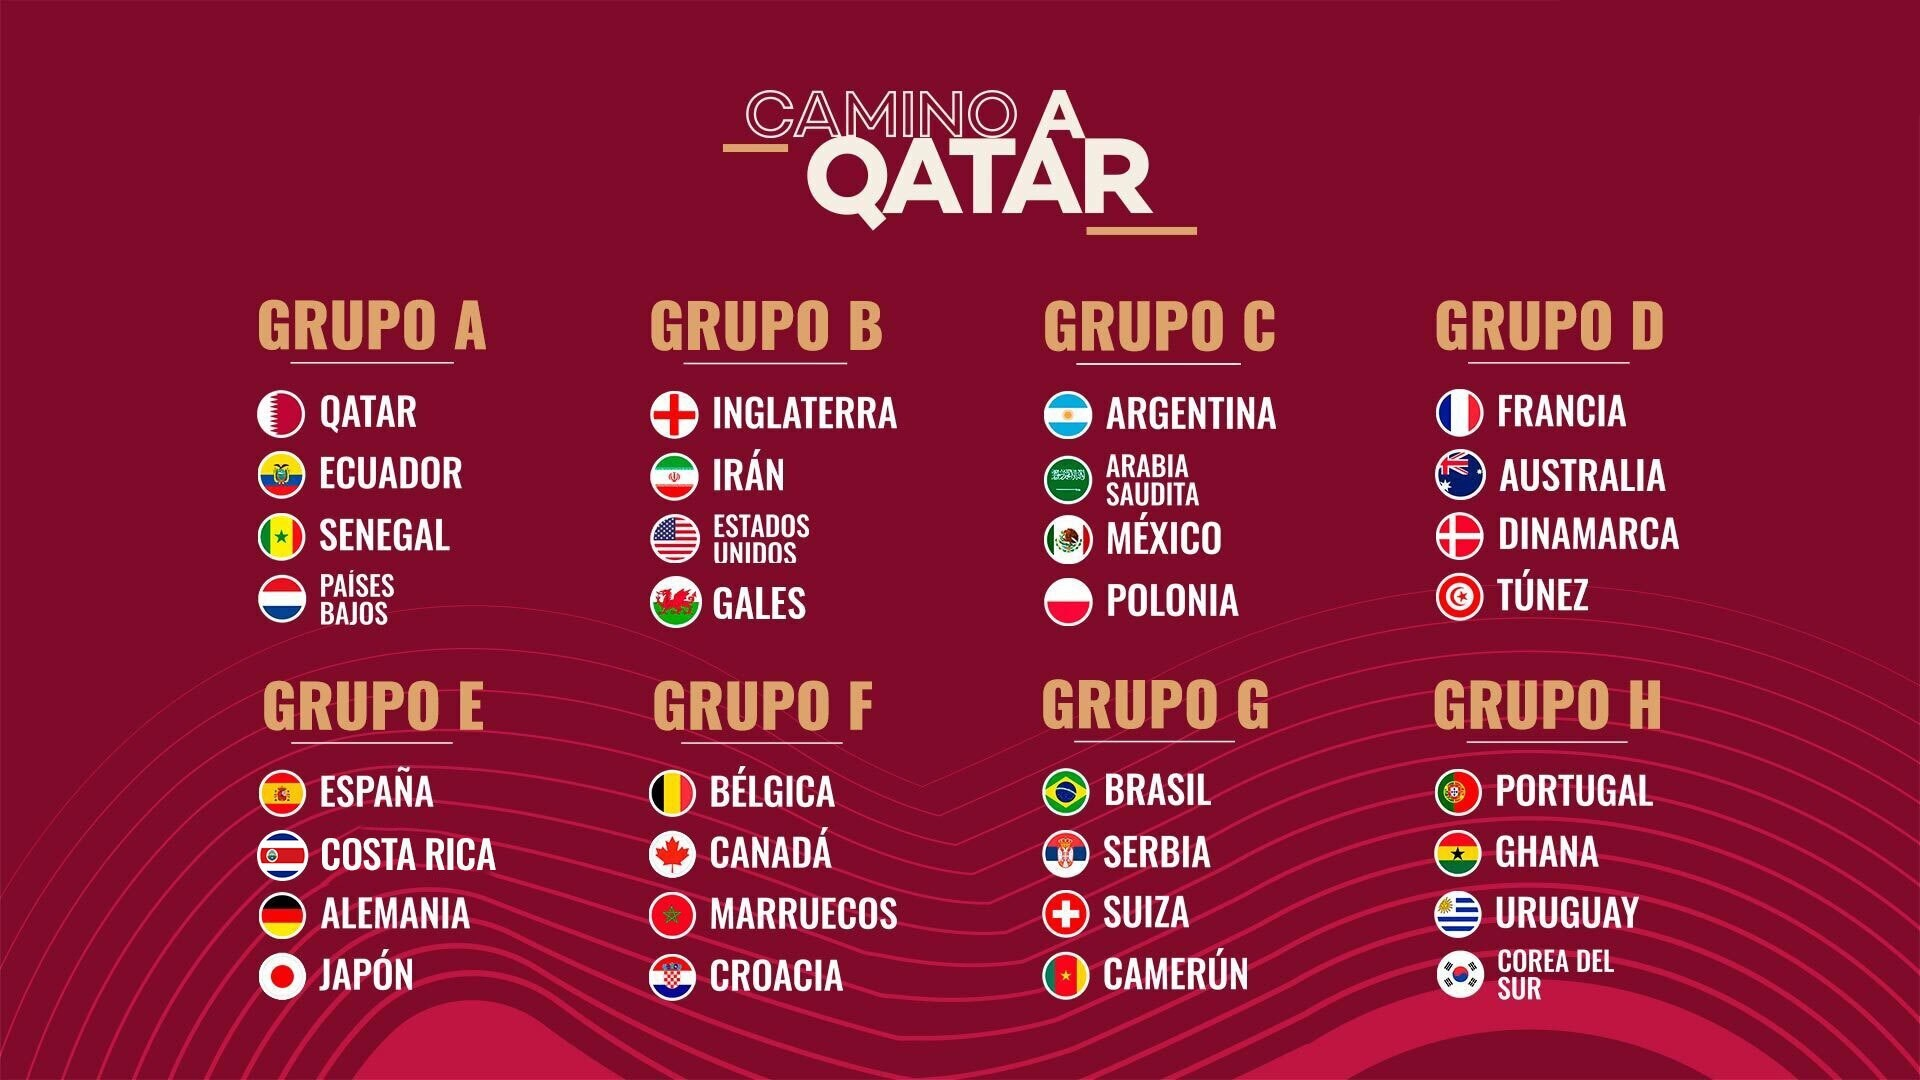
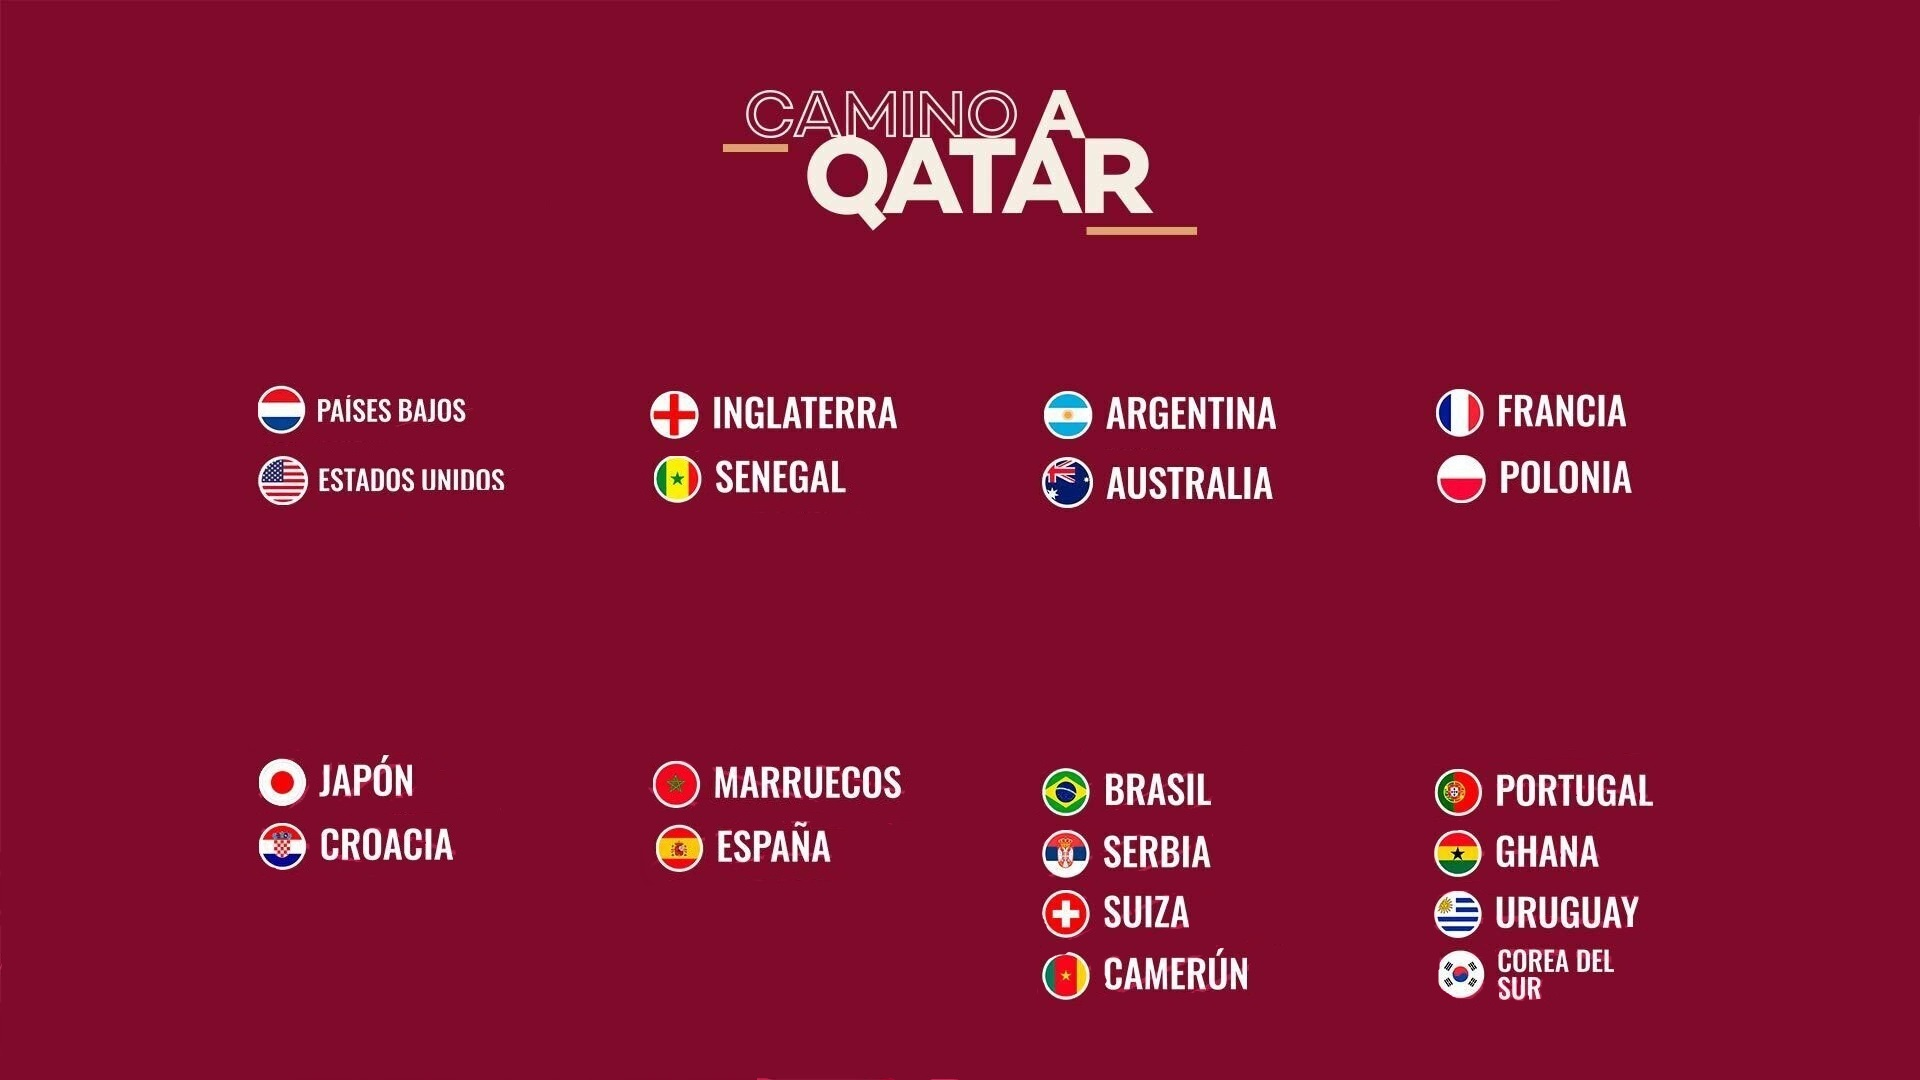
Actualizacion 8vos

diff --git a/js/app.js b/js/app.js
@@ -45,8 +45,15 @@ var app = new Vue({
         fnDeleteGambler(name){        
             this.listGamblers = this.listGamblers.filter((item) => { return item.name.toLowerCase() != name.toLowerCase() });
         },
-        fnResetTeamNums(){
-            this.teamNums = Array.from({length: this.teams.length}, (_, i) => i + 1);
+        fnResetTeamNums(){            
+            let arr = [];             
+            this.teams = this.teams.filter(function(team){
+                if(team.eliminate == false){
+                    arr.push(team.id);
+                }
+                return team.eliminate == false;
+            });
+            this.teamNums = arr;
         },
         fnResetSelect(){
             this.listGamblers = [];
@@ -73,17 +80,20 @@ var app = new Vue({
             return Math.floor(Math.random() * length);
         },        
         fnLottery(){       
+            let objThis = this;
             this.showLoading = true;                   
             this.fnResetTeamNums();          
-            let teams4Participant = Math.floor(this.teamNums.length/this.numGamblers);
-            this.listGamblers = this.listGamblers.filter(function(obj){ return obj.name.toLowerCase() != "none" }) ;
+            let teams4Participant = Math.floor(this.teams.length/this.numGamblers);
+            this.listGamblers = this.listGamblers.filter(function(obj){ return obj.name.toLowerCase() != "none" }) ;            
             for(let index in this.listGamblers) {                                                                
                 let objGambler = this.listGamblers[index];
                 objGambler.data = [];
                 for(var j= 1; j <= teams4Participant; j++) //numeros por participante
-                {
-                    let pos = this.fnRandom(this.teamNums.length);
-                    let elementSelected = this.teams.filter((item)=>{ return item.id == this.teamNums[pos]; });    
+                {                    
+                    let pos = this.fnRandom(this.teamNums.length);                    
+                    let elementSelected = this.teams.filter(function(item){ 
+                        return item.id == objThis.teamNums[pos]; 
+                    });    
                     this.teamNums.splice(pos,1);                                                    
                     objGambler.data.push(elementSelected[0]);
                 }                  
@@ -95,8 +105,7 @@ var app = new Vue({
                     objNone.data.push(this.teams.filter((item)=>{ return item.id == this.teamNums[k]; })[0]);
                 }  
                 this.listGamblers.push(objNone);
-            }   
-            let objThis = this;
+            }               
             setTimeout(function(){
                 objThis.showLoading = false;
             }, 1000);
@@ -119,8 +128,8 @@ var app = new Vue({
             return this.listGamblers.length >= this.numGamblers;
         },        
     },
-    data: { 
-        gamblerName: "",        
+    data: {         
+        gamblerName: "", 
         teamNums: [],        
         listGamblers: [],        
         numGamblers:2,  
@@ -130,162 +139,194 @@ var app = new Vue({
             id:1,
             country: "QATAR",
             group: "A",
-            flag: "images/flags/4x3/qa.svg"
+            flag: "images/flags/4x3/qa.svg",
+            eliminate: true
         },{
             id:2,
             country: "ECUADOR",
             group: "A",
-            flag: "images/flags/4x3/ec.svg"
+            flag: "images/flags/4x3/ec.svg",
+            eliminate: true
         },{
             id:3,
             country: "SENEGAL",
             group: "A",
-            flag: "images/flags/4x3/sn.svg"
+            flag: "images/flags/4x3/sn.svg",
+            eliminate: false
         },{
             id:4,
             country: "PAISES BAJOS",
             group: "A",
-            flag: "images/flags/4x3/nl.svg"
+            flag: "images/flags/4x3/nl.svg",
+            eliminate: false
         },{
             id:5,
             country: "INGLATERRA",
             group: "B",
-            flag: "images/flags/4x3/gb-eng.svg"
+            flag: "images/flags/4x3/gb-eng.svg",
+            eliminate: false
         },{
             id:6,
             country: "IRAN",
             group: "B",
-            flag: "images/flags/4x3/ir.svg"
+            flag: "images/flags/4x3/ir.svg",
+            eliminate: true
         },{
             id:7,
             country: "EEUU",
             group: "B",
-            flag: "images/flags/4x3/us.svg"
+            flag: "images/flags/4x3/us.svg",
+            eliminate: false
         },{
             id:8,
             country: "GALES",
             group: "B",
-            flag: "images/flags/4x3/gb-wls.svg"
+            flag: "images/flags/4x3/gb-wls.svg",
+            eliminate: true
         },{
             id:9,
             country: "ARGENTINA",
             group: "C",
-            flag: "images/flags/4x3/ar.svg"
+            flag: "images/flags/4x3/ar.svg",
+            eliminate: false
         },{
             id:10,
             country: "ARABIA S.",
             group: "C",
-            flag: "images/flags/4x3/sa.svg"
+            flag: "images/flags/4x3/sa.svg",
+            eliminate: true
         },{
             id:11,
             country: "MEXICO",
             group: "C",
-            flag: "images/flags/4x3/mx.svg"
+            flag: "images/flags/4x3/mx.svg",
+            eliminate: true
         },{
             id:12,
             country: "POLONIA",
             group: "C",
-            flag: "images/flags/4x3/pl.svg"
+            flag: "images/flags/4x3/pl.svg",
+            eliminate: false
         },{
             id:13,
             country: "FRANCIA",
             group: "D",
-            flag: "images/flags/4x3/fr.svg"
+            flag: "images/flags/4x3/fr.svg",
+            eliminate: false
         },{
             id:14,
             country: "AUSTRALIA",
             group: "D",
-            flag: "images/flags/4x3/au.svg"
+            flag: "images/flags/4x3/au.svg",
+            eliminate: false
         },{
             id:15,
             country: "DINAMARCA",
             group: "D",
-            flag: "images/flags/4x3/dk.svg"
+            flag: "images/flags/4x3/dk.svg",
+            eliminate: true
         },{
             id:16,
             country: "TUNEZ",
             group: "D",
-            flag: "images/flags/4x3/tn.svg"
+            flag: "images/flags/4x3/tn.svg",
+            eliminate: true
         },{
             id:17,
             country: "ESPAÑA",
             group: "E",
-            flag: "images/flags/4x3/es.svg"
+            flag: "images/flags/4x3/es.svg",
+            eliminate: false
         },{
             id:18,
             country: "COSTA RICA",
             group: "E",
-            flag: "images/flags/4x3/cr.svg"
+            flag: "images/flags/4x3/cr.svg",
+            eliminate: true
         },{
             id:19,
             country: "ALEMANIA",
             group: "E",
-            flag: "images/flags/4x3/de.svg"
+            flag: "images/flags/4x3/de.svg",
+            eliminate: true
         },{
             id:20,
             country: "JAPON",
             group: "E",
-            flag: "images/flags/4x3/jp.svg"
+            flag: "images/flags/4x3/jp.svg",
+            eliminate: false
         },{
             id:21,
             country: "BELGICA",
             group: "F",
-            flag: "images/flags/4x3/be.svg"
+            flag: "images/flags/4x3/be.svg",
+            eliminate: true
         },{
             id:22,
             country: "CANADA",
             group: "F",
-            flag: "images/flags/4x3/ca.svg"
+            flag: "images/flags/4x3/ca.svg",
+            eliminate: true
         },{
             id:23,
             country: "MARRUECOS",
             group: "F",
-            flag: "images/flags/4x3/ma.svg"
+            flag: "images/flags/4x3/ma.svg",
+            eliminate: false
         },{
             id:24,
             country: "CROACIA",
             group: "F",
-            flag: "images/flags/4x3/hr.svg"
+            flag: "images/flags/4x3/hr.svg",
+            eliminate: false
         },{
             id:25,
             country: "BRASIL",
             group: "G",
-            flag: "images/flags/4x3/br.svg"
+            flag: "images/flags/4x3/br.svg",
+            eliminate: false
         },{
             id:26,
             country: "SERBIA",
             group: "G",
-            flag: "images/flags/4x3/rs.svg"
+            flag: "images/flags/4x3/rs.svg",
+            eliminate: true
         },{
             id:27,
             country: "SUIZA",
             group: "G",
-            flag: "images/flags/4x3/ch.svg"
+            flag: "images/flags/4x3/ch.svg",
+            eliminate: false
         },{
             id:28,
             country: "CAMERUN",
             group: "G",
-            flag: "images/flags/4x3/cm.svg"
+            flag: "images/flags/4x3/cm.svg",
+            eliminate: true
         },{
             id:29,
             country: "PORTUGAL",
             group: "H",
-            flag: "images/flags/4x3/pt.svg"
+            flag: "images/flags/4x3/pt.svg",
+            eliminate: false
         },{
             id:30,
             country: "GHANA",
             group: "H",
-            flag: "images/flags/4x3/gh.svg"
+            flag: "images/flags/4x3/gh.svg",
+            eliminate: false
         },{
             id:31,
             country: "URUGUAY",
             group: "H",
-            flag: "images/flags/4x3/uy.svg"
+            flag: "images/flags/4x3/uy.svg",
+            eliminate: true
         },{
             id:32,
             country: "COREA DEL SUR",
             group: "H",
-            flag: "images/flags/4x3/kr.svg"
+            flag: "images/flags/4x3/kr.svg",
+            eliminate: true
         }]
     }
 }); 

diff --git a/service-worker.js b/service-worker.js
@@ -1,4 +1,4 @@
-const appVersion = "2.0";
+const appVersion = "3.0";
 const styleLog = {
   base: [
     "color: #fff",
